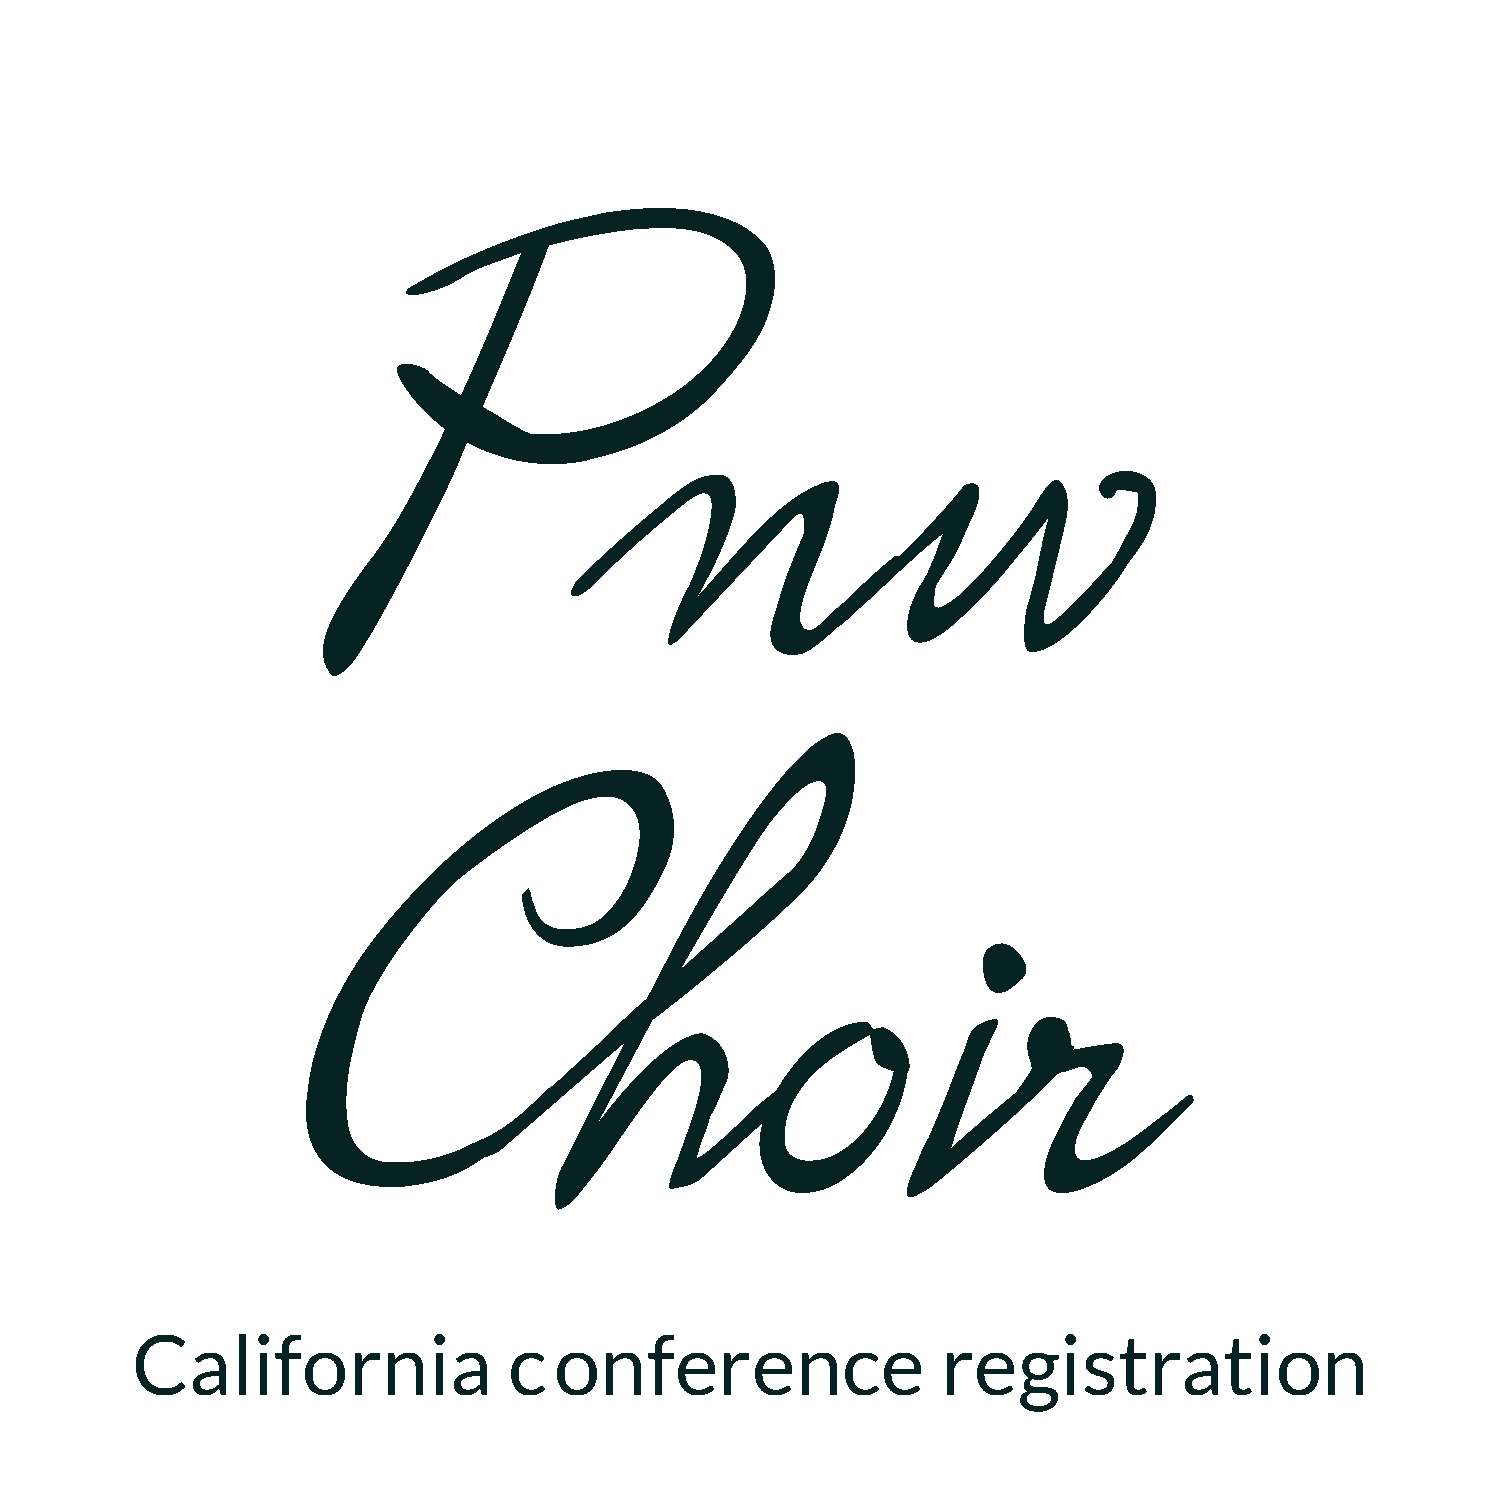
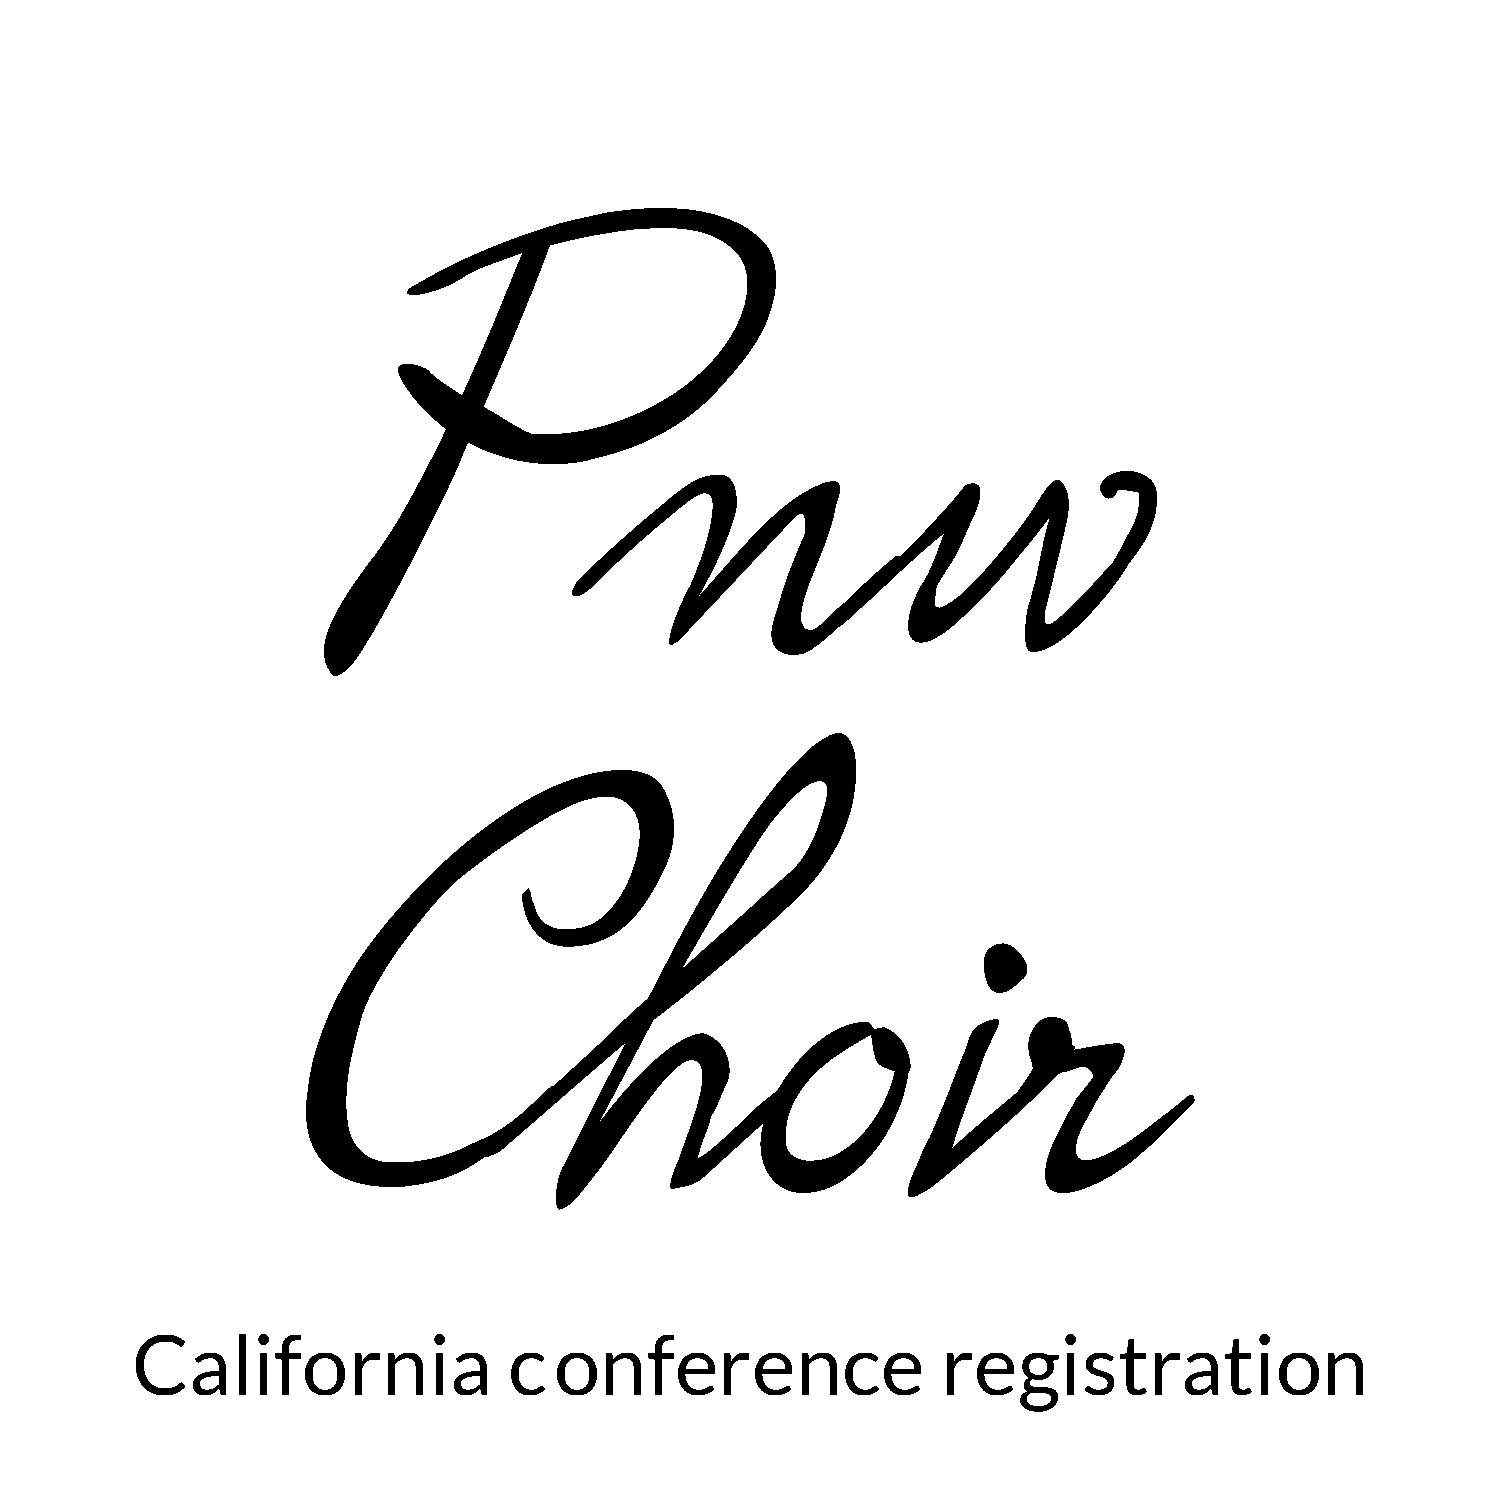
edited pics, added pic to tab

Changed region(s): [[0.184, 0.4907, 0.7973, 0.7973], [0.2147, 0.1227, 0.7667, 0.46], [0.092, 0.8893, 0.92, 0.9507]]

diff --git a/public/index.html b/public/index.html
@@ -2,14 +2,15 @@
 <html lang="en">
   <head>
     <meta charset="utf-8" />
-    <link rel="icon" href="%PUBLIC_URL%/favicon.ico" />
+    <!-- <link rel="icon" href="%PUBLIC_URL%/favicon.ico" /> -->
+    <link rel="icon" href="%PUBLIC_URL%/PNWChoirLogoForTab.png" />
     <meta name="viewport" content="width=device-width, initial-scale=1" />
     <meta name="theme-color" content="#000000" />
     <meta
       name="description"
       content="Sign-up page for the 2021 youth conference choir"
     />
-    <link rel="apple-touch-icon" href="%PUBLIC_URL%/logo192.png" />
+    <link rel="apple-touch-icon" href="%PUBLIC_URL%/PNWChoirLogoForTab.png" />
     <!--
       manifest.json provides metadata used when your web app is installed on a
       user's mobile device or desktop. See https://developers.google.com/web/fundamentals/web-app-manifest/
